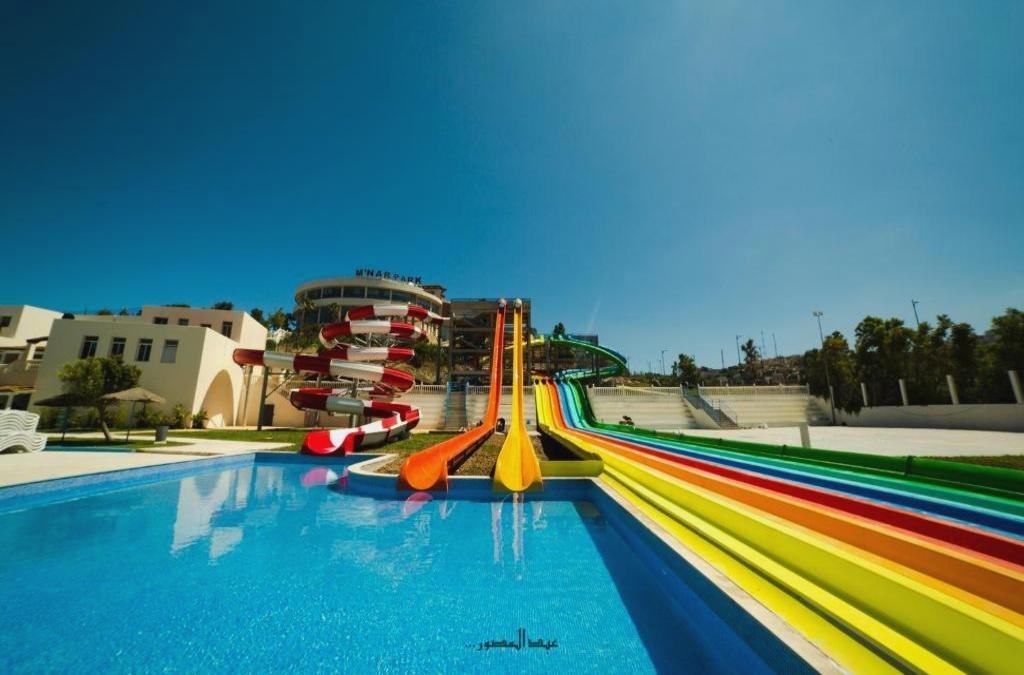
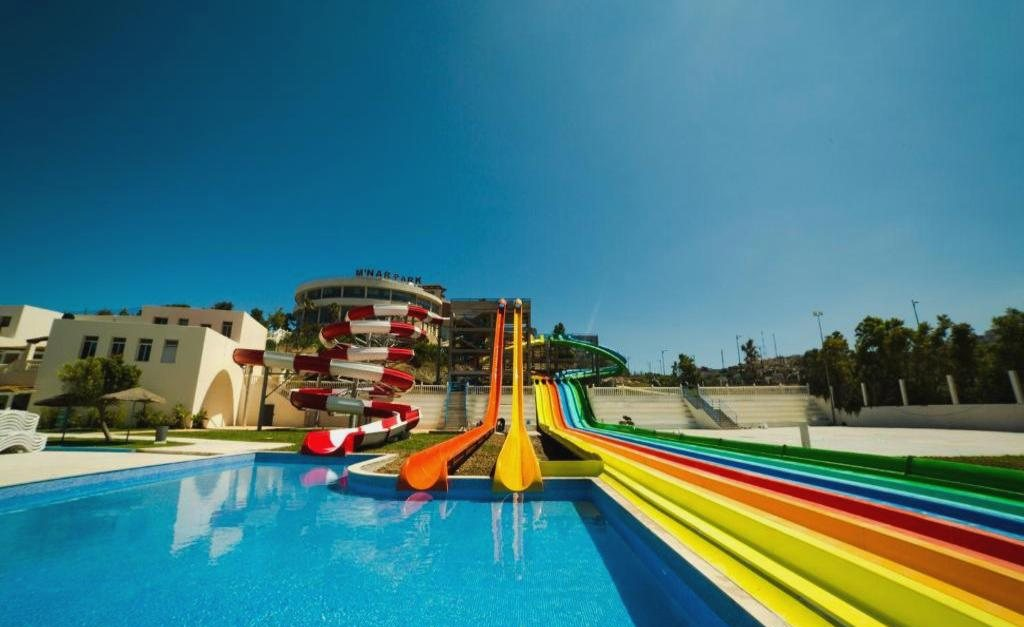
Deploy mnar-park (GitHub Pages)

diff --git a/index.html b/index.html
@@ -259,7 +259,7 @@ document.getElementById('mqtrack').innerHTML=half+half;
 const NFRAMES=110,frames=[];let loaded=0;
 const cv=document.getElementById('filmcanvas'),cx=cv.getContext('2d');
 function sizeCanvas(){const r=cv.parentElement.getBoundingClientRect();cv.width=r.width;cv.height=r.height;draw(cur)}
-function draw(i){const im=frames[i];if(!im)return;const s=Math.max(cv.width/im.width,cv.height/im.height);const w=im.width*s,h=im.height*s;cx.drawImage(im,(cv.width-w)/2,(cv.height-h)/2,w,h)}
+function draw(i){const im=frames[i];if(!im||!im.naturalWidth)return;const s=Math.max(cv.width/im.width,cv.height/im.height);const w=im.width*s,h=im.height*s;cx.drawImage(im,(cv.width-w)/2,(cv.height-h)/2,w,h)}
 let cur=0,shown=-1;
 for(let i=0;i<NFRAMES;i++){const im=new Image();im.src=`film/frames/f${String(i).padStart(3,'0')}.webp`;im.onload=()=>{loaded++;if(loaded===1){sizeCanvas()}};frames.push(im)}
 const caps=[
